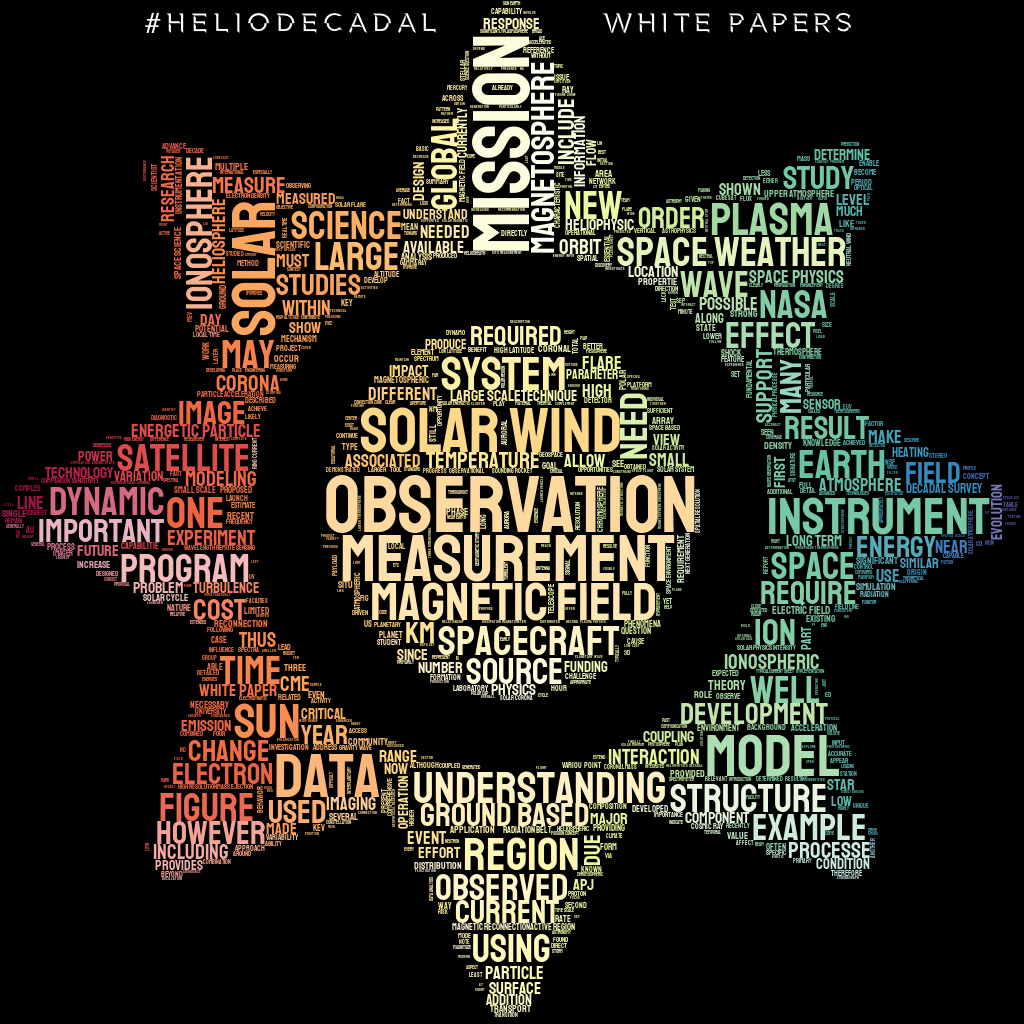
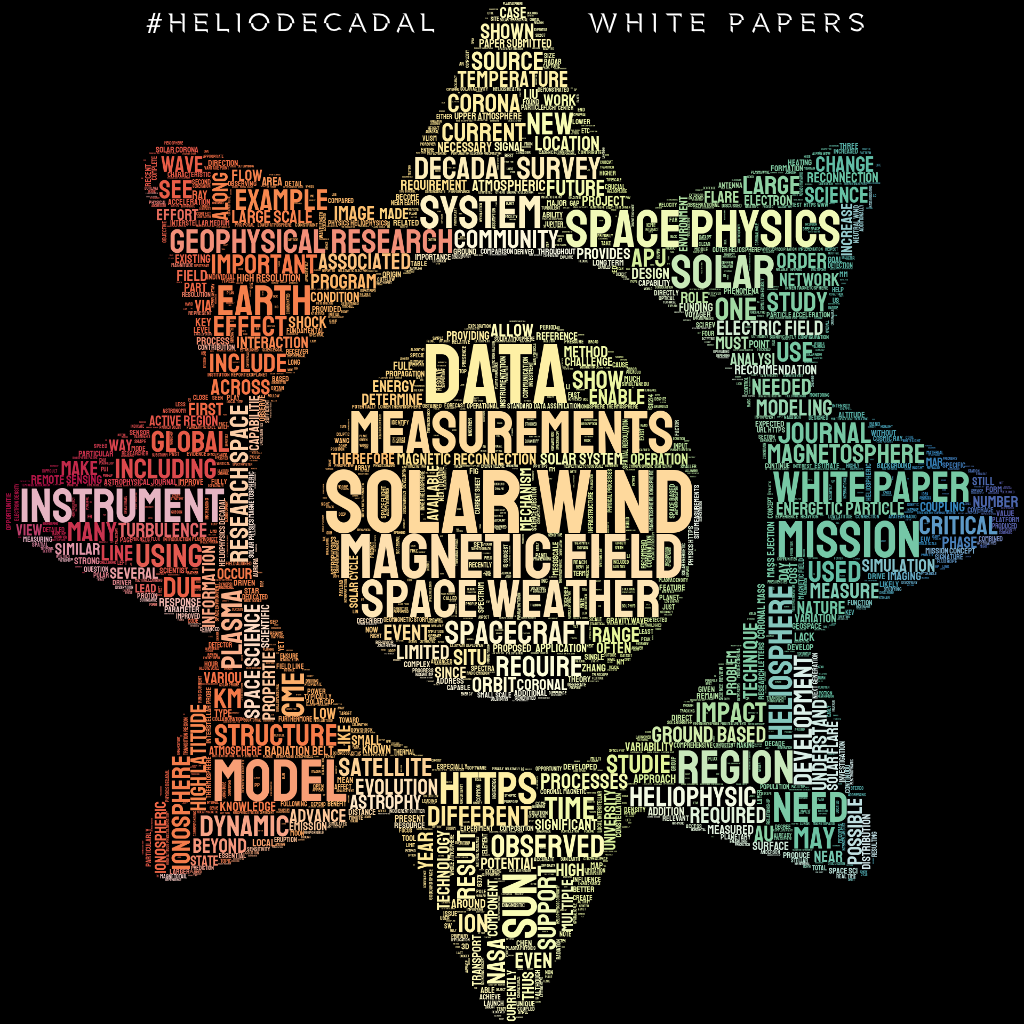
Corrected mistake: download _new_ white papers not the 2013 ones

diff --git a/generate_visualizations.py b/generate_visualizations.py
@@ -1,4 +1,5 @@
 import pandas as pd
+import glob
 import seaborn as sns
 import matplotlib.pyplot as plt
 import requests
@@ -14,22 +15,12 @@ def download_white_paper_titles():
     open("whitepapers.csv", "wb").write(response.content)
 
 
-def download_white_paper_pdfs():
-    url = 'http://nationalacademies.org/docs/DA524E6332D2E049F5FED8AB6FEA10B33B6B580AE727'
-    response = requests.get(url)
-    open("solar_helio_white_papers.pdf", "wb").write(response.content)
-
-    url = 'https://nationalacademies.org/docs/DA27F10CA4B39D78D506D796D23AA28CF497E2189520'
-    response = requests.get(url)
-    open("atmo_iono_magneto_white_papers.pdf", "wb").write(response.content)
-
-    url = 'https://nationalacademies.org/docs/D74AA75ADB2D476CAEC22D602FAF0FEC83E61398725A'
-    response = requests.get(url)
-    open('solar_wind_magneto_white_papers.pdf', 'wb').write(response.content)
-
-    url = 'https://nationalacademies.org/docs/D67F14C61DF510CE8E01E269D4B5B789A678C161036C'
-    response = requests.get(url)
-    open('general_white_papers.pdf', 'wb').write(response.content)
+def download_white_paper_pdfs(df_titles):
+    for i, url in enumerate(df_titles['1:Upload White Paper  '].values): 
+        response = requests.get(url)
+        title = df_titles['White Paper Title'].values[i]
+        title = title.replace("/","-")
+        open('white_papers/' + title + '.pdf', 'wb').write(response.content)
 
 
 def read_white_paper_titles():
@@ -42,22 +33,13 @@ def read_white_paper_titles():
 
 
 def read_white_paper_pdfs():
-    reader = PdfReader('solar_helio_white_papers.pdf')
+    filenames = glob.glob("white_papers/*.pdf")
+    
     text = ''
-    for page in reader.pages:
-        text+=page.extract_text()
-    
-    reader = PdfReader('atmo_iono_magneto_white_papers.pdf')
-    for page in reader.pages:
-        text+=page.extract_text()
-    
-    reader = PdfReader('solar_wind_magneto_white_papers.pdf')
-    for page in reader.pages:
-        text+=page.extract_text()
-
-    reader = PdfReader('general_white_papers.pdf')
-    for page in reader.pages:
-        text+=page.extract_text()
+    for file in filenames: 
+        reader = PdfReader(file)
+        for page in reader.pages:
+            text+=page.extract_text()
 
     return text
 
@@ -86,16 +68,16 @@ def make_pie_chart(df):
     fig.savefig("pie.png")
 
 
-def make_word_cloud(text):
+def make_word_cloud(text, shape='fas fa-sun'):
     stop_words = get_stop_words('english')
     stop_words.extend(list(string.ascii_lowercase))
-    stop_words.extend(['et al', 'et', 'al', 'et al.', 'physic', 'geophys', 'doi', 'two', 'thu', 'space physic', 'res lett', 'provide', 'can', 'th', 'de', 'also', 're', 'res', 'lett', 'res lett', 'will', 'however'])
+    stop_words.extend(['et al', 'et', 'al', 'et al.', 'physic', 'geophys', 'doi', 'two', 'thu', 'space physic', 'res lett', 'provide', 'can', 'th', 'de', 'also', 're', 'res', 'lett', 'res lett', 'will', 'however', 'org', 'well', 'within', 'white paper', 'doi', 'http', 'https', 'figure', 'observation', 'observations', 'measurement', 'understanding', 'journal'])
     stylecloud.gen_stylecloud(text=text,
-                              icon_name='fas fa-sun',
+                              icon_name=shape, # To select the shape, pick a name from https://fontawesome.com/icons?d=gallery&m=free
                               palette='colorbrewer.diverging.Spectral_11',
                               background_color='black',
                               gradient='radial',
-                              size=1024,
+                              size=1920,
                               custom_stopwords=stop_words)
 
 
@@ -103,9 +85,10 @@ if __name__ == "__main__":
     do_download = False
     if do_download: 
         download_white_paper_titles()
-        download_white_paper_pdfs()
-
     df_titles = read_white_paper_titles()
+    if do_download: 
+        download_white_paper_pdfs(df_titles)
+    
     text_papers = read_white_paper_pdfs()
     #plot_data(df_titles)
     generate_stats(df_titles, text_papers)

diff --git a/merge_pdfs.py b/merge_pdfs.py
@@ -1,0 +1,10 @@
+from PyPDF2 import PdfMerger, PdfReader
+import glob
+ 
+mergedObject = PdfMerger()
+filenames = glob.glob("white_papers/*.pdf")
+
+for file in filenames:
+    mergedObject.append(PdfReader(file, 'rb'))
+ 
+mergedObject.write("All Decadal White Papers.pdf")
